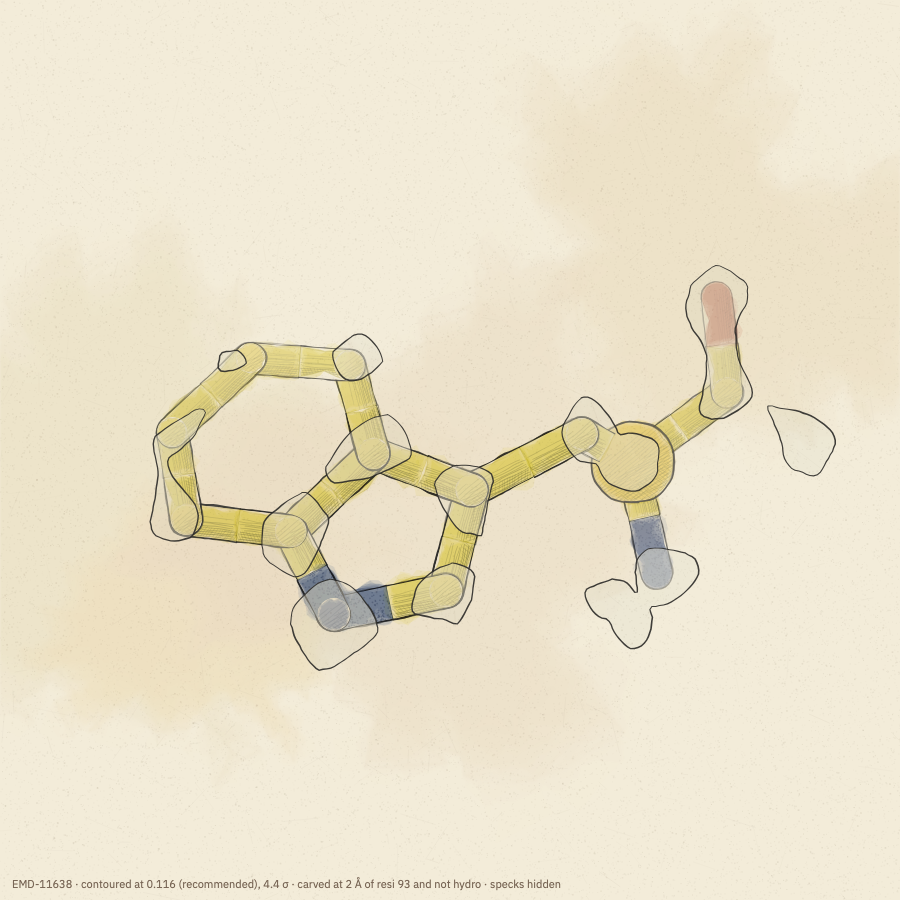
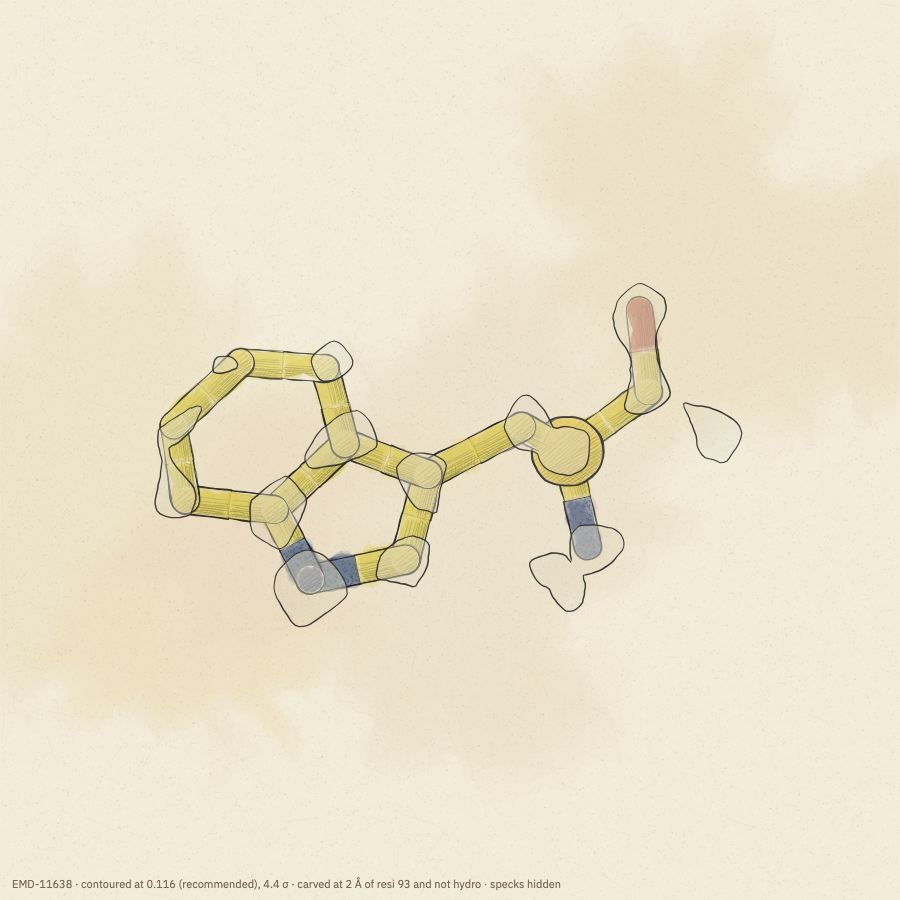
Maps: a close-up is framed on its density as well as its atoms
A close-up fitted only its residues' atoms, so their density ran off the drawing (Asp89's into the caption). The
camera now fits the density drawn too (the vertices of the kept surface), in the drawing and the preview alike.

Changed region(s): [[0.1556, 0.3111, 0.84, 0.7156], [0.6222, 0.6533, 0.6533, 0.6844]]

diff --git a/app/src/render/renderer.ts b/app/src/render/renderer.ts
@@ -10,7 +10,7 @@ import { pcaBasis } from './pca';
 import { buildSticks, buildSurface, buildCartoon, REP_STICKS, REP_CARTOON, REP_SURFACE, type CartoonRun } from './geometry';
 import { type Style, hexToRgb } from '../style';
 import type { DensityMap } from '../model/map';
-import { preparedMap, type EngineMap } from '../classic/mapprep';
+import { preparedMap, closeUpFit, type EngineMap } from '../classic/mapprep';
 
 const MAP_CLS = 10, MAP_REP = 4, MAP_ID = 0xfffff0;
 
@@ -32,6 +32,8 @@ export class Renderer {
   geom: { stickMask: Uint8Array | null; surfaceMask: Uint8Array | null; runs: CartoonRun[]; scheme: ColorScheme | null } = { stickMask: null, surfaceMask: null, runs: [], scheme: null };
   lastView: Float32Array | null = null; lastProj: Float32Array | null = null;
   fitPoints: Float32Array = new Float32Array(0);
+  /** what is drawn of the structure (fitPoints, before a close-up's density is added) */
+  private atomFit: Float32Array = new Float32Array(0);
   /** when set (scenes), the camera fits these points instead of the drawn atoms */
   fitOverride: Float32Array | null = null;
   frame = 0;
@@ -90,7 +92,7 @@ export class Renderer {
     let n = 0; for (let i = 0; i < s.count; i++) n += shown[i];
     const pts = new Float32Array((n || s.count) * 3); let k = 0;
     for (let i = 0; i < s.count; i++) if (!n || shown[i]) { pts[k++] = s.x[i]; pts[k++] = s.y[i]; pts[k++] = s.z[i] }
-    this.fitPoints = (this.fitOverride ?? pts) as Float32Array; this.camera.setFitPoints(this.fitPoints);
+    this.fitPoints = this.atomFit = (this.fitOverride ?? pts) as Float32Array; this.camera.setFitPoints(this.fitPoints);
     this.rebuildMap(style, s);
     this.stats.atoms = s.count; this.stats.instances = inst; this.stats.triangles = tris; this.stats.buildMs = performance.now() - t0;
   }
@@ -101,6 +103,7 @@ export class Renderer {
   mapSource: ((map: DensityMap, style: Style, s: Structure | null, base: Float32Array, lr: DensityMap | null) => EngineMap | null) | null = null;
   private rebuildMap(style: Style, s: Structure | null) {
     this.mapBatch?.dispose(this.gl); this.mapBatch = null; this.mapDrawn = null; this.camera.pushBehind = false;
+    if (s && this.fitPoints !== this.atomFit) { this.fitPoints = this.atomFit; this.camera.setFitPoints(this.atomFit) }   // no close-up: framed on the atoms again
     const m = this.map; if (!m || style.map.visible === false) return;
     const em = this.mapSource ? this.mapSource(m, style, s, this.camera.base, this.localRes) : preparedMap(m, style, s, this.camera.base, this.localRes); if (!em) return;
     const L = em.levels[em.primary] || em.levels[0]; if (!L || !L.tri.length) return;
@@ -111,6 +114,7 @@ export class Renderer {
       verts[o] = b[0] * x + b[1] * y + b[2] * z; verts[o + 1] = b[4] * x + b[5] * y + b[6] * z; verts[o + 2] = b[8] * x + b[9] * y + b[10] * z };
     for (let v = 0; v < nv; v++) { const o = v * 11; un(L.pos, v, o); un(L.nor, v, o + 3); verts[o + 6] = col[0]; verts[o + 7] = col[1]; verts[o + 8] = col[2]; verts[o + 9] = MAP_ID; verts[o + 10] = MAP_CLS }
     this.mapBatch = new MeshBatch(this.gl, this.progs.map, verts, L.tri, MAP_REP);
+    if (s) { const fit = closeUpFit(em, this.camera.base, this.atomFit); if (fit !== this.fitPoints) { this.fitPoints = fit; this.camera.setFitPoints(fit) } }   // a close-up is framed on its density too
     this.camera.pushBehind = !!s && s.count > 0;
     if (!s) { // on its own: fitted to its surface (every few vertices are enough)
       const k = Math.max(1, Math.floor(nv / 20000)), pts = new Float32Array(Math.ceil(nv / k) * 3); let n = 0, cx = 0, cy = 0, cz = 0;

diff --git a/app/src/classic/adapter.ts b/app/src/classic/adapter.ts
@@ -5,7 +5,7 @@ import type { Renderer } from '../render/renderer';
 import type { Structure } from '../model/structure';
 import type { Style } from '../style';
 import type { DensityMap } from '../model/map';
-import { prepareMap, mapBasis, mapLevel, type EngineMap } from './mapprep';
+import { prepareMap, mapBasis, mapLevel, closeUpFit, type EngineMap } from './mapprep';
 
 /** where the drawing gets its prepared map: prepared in line (the headless core), or from the app's worker, which
     answers null while it prepares it (the drawing then waits) */
@@ -71,7 +71,7 @@ export function renderClassic(ctx: CanvasRenderingContext2D, R: Renderer, style:
   const t0 = performance.now(); const E = classic(); const s = R.structure; const map: DensityMap | null = style.map.visible === false ? null : (R as any).map || null;   // hidden: kept, not drawn if (!s && !map) return 0;
   const em = map ? mapSource(map, style, s, R.camera.base, R.localRes || null) : null; if (map && !em) return -1;   // the map is being prepared: nothing drawn yet
   E.cfg = cfgFromStyle(style, R.camera, false);
-  if (s) { E.scene = sceneFromStructure(s, style, R.overrides, R.camera.base, R.fitPoints, R.labels); (E.scene as any)._src = s; (E.scene as any).atomIds = (sceneFromStructure as any).lastIds }   // which structure it was built from
+  if (s) { E.scene = sceneFromStructure(s, style, R.overrides, R.camera.base, em ? closeUpFit(em, R.camera.base, R.fitPoints) : R.fitPoints, R.labels); (E.scene as any)._src = s; (E.scene as any).atomIds = (sceneFromStructure as any).lastIds }   // which structure it was built from
   else E.scene = mapScene(map!, style, R.camera.base, R.labels, em!);
   (E.scene as any).map = em;
   ctx.save(); ctx.setTransform(1, 0, 0, 1, 0, 0); ctx.clearRect(0, 0, R.w, R.h); ctx.restore();

diff --git a/python/molsketch/_core.js b/python/molsketch/_core.js
@@ -7194,6 +7194,24 @@
       return [best, Math.sqrt(bd)];
     };
   }
+  function closeUpFit(em, base, atoms) {
+    const L = em.levels[em.primary] || em.levels[0];
+    if (!em.closeUp || !L) return atoms;
+    const used = new Uint8Array(L.pos.length / 3);
+    for (let t = 0; t < L.tri.length; t++) used[L.tri[t]] = 1;
+    const vs = [];
+    for (let v = 0; v < used.length; v++) if (used[v]) vs.push(v);
+    const k = Math.max(1, Math.floor(vs.length / 4e3)), out = new Float32Array(atoms.length + Math.ceil(vs.length / k) * 3);
+    out.set(atoms);
+    let o = atoms.length;
+    for (let q = 0; q < vs.length; q += k) {
+      const v = vs[q], x = L.pos[v * 3], y = L.pos[v * 3 + 1], z = L.pos[v * 3 + 2];
+      out[o++] = base[0] * x + base[1] * y + base[2] * z;
+      out[o++] = base[4] * x + base[5] * y + base[6] * z;
+      out[o++] = base[8] * x + base[9] * y + base[10] * z;
+    }
+    return out.subarray(0, o);
+  }
 
   // src/classic/adapter.ts
   var mapSource = prepareMap;
@@ -7333,7 +7351,7 @@
     if (map && !em) return -1;
     E.cfg = cfgFromStyle(style, R.camera, false);
     if (s) {
-      E.scene = sceneFromStructure(s, style, R.overrides, R.camera.base, R.fitPoints, R.labels);
+      E.scene = sceneFromStructure(s, style, R.overrides, R.camera.base, em ? closeUpFit(em, R.camera.base, R.fitPoints) : R.fitPoints, R.labels);
       E.scene._src = s;
       E.scene.atomIds = sceneFromStructure.lastIds;
     } else E.scene = mapScene(map, style, R.camera.base, R.labels, em);

diff --git a/app/src/classic/mapprep.ts b/app/src/classic/mapprep.ts
@@ -229,3 +229,15 @@ function nearestAtom(s: Structure | null, atoms: number[]) {
     return [best, Math.sqrt(bd)];
   };
 }
+
+/** a close-up's density surface, back in the structure's frame (a few thousand of its vertices): with the atoms, what a
+    close-up is framed on, so its density is not cut by the frame */
+export function closeUpFit(em: EngineMap, base: Float32Array, atoms: Float32Array): Float32Array {
+  const L = em.levels[em.primary] || em.levels[0]; if (!em.closeUp || !L) return atoms;
+  const used = new Uint8Array(L.pos.length / 3); for (let t = 0; t < L.tri.length; t++) used[L.tri[t]] = 1;   // what is drawn (carving leaves vertices unused)
+  const vs: number[] = []; for (let v = 0; v < used.length; v++) if (used[v]) vs.push(v);
+  const k = Math.max(1, Math.floor(vs.length / 4000)), out = new Float32Array(atoms.length + Math.ceil(vs.length / k) * 3); out.set(atoms); let o = atoms.length;
+  for (let q = 0; q < vs.length; q += k) { const v = vs[q], x = L.pos[v * 3], y = L.pos[v * 3 + 1], z = L.pos[v * 3 + 2];
+    out[o++] = base[0] * x + base[1] * y + base[2] * z; out[o++] = base[4] * x + base[5] * y + base[6] * z; out[o++] = base[8] * x + base[9] * y + base[10] * z }
+  return out.subarray(0, o);
+}
